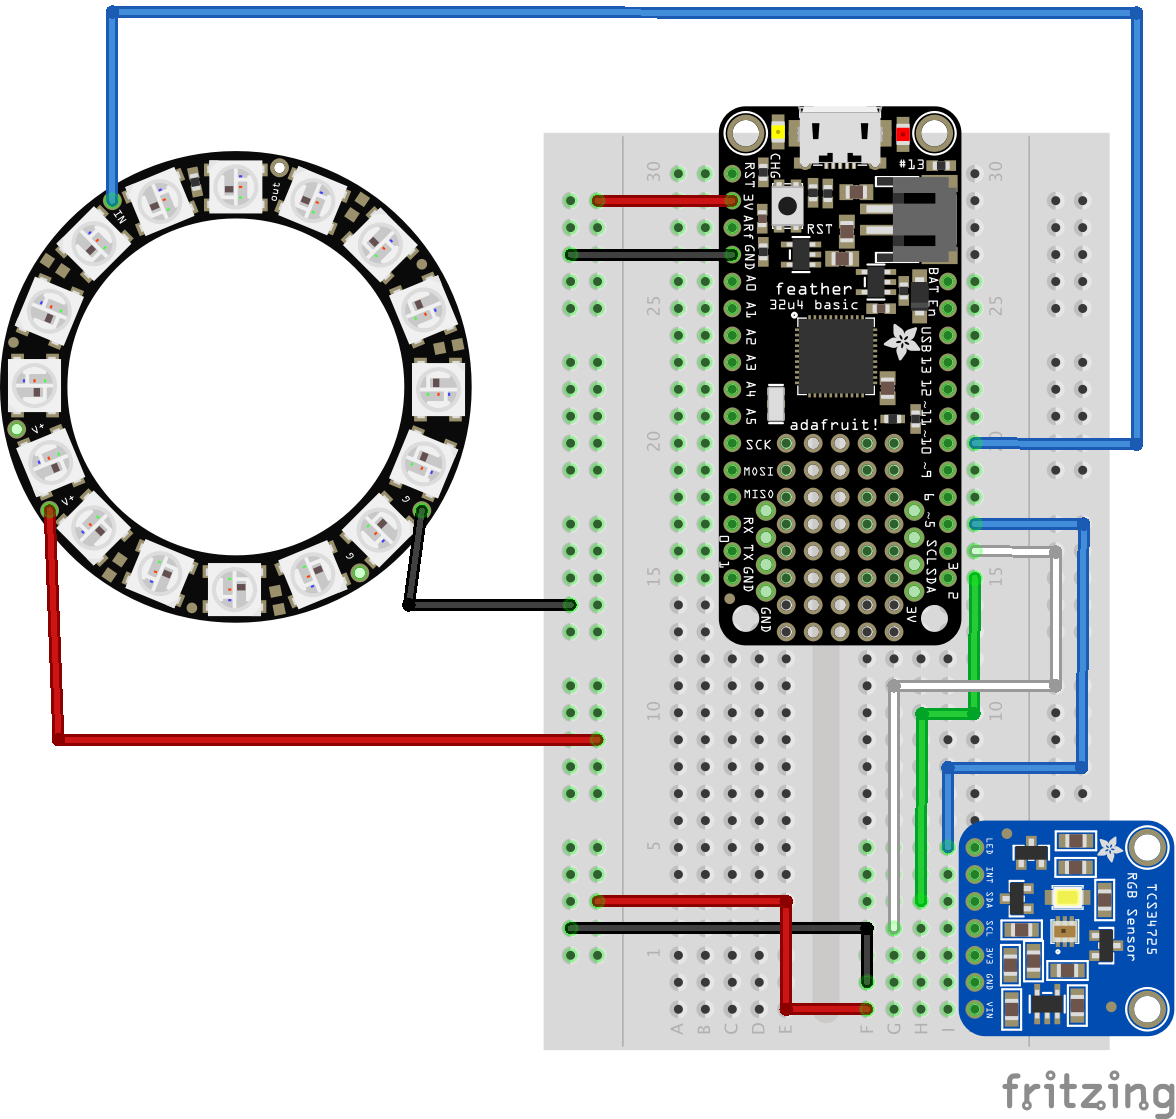
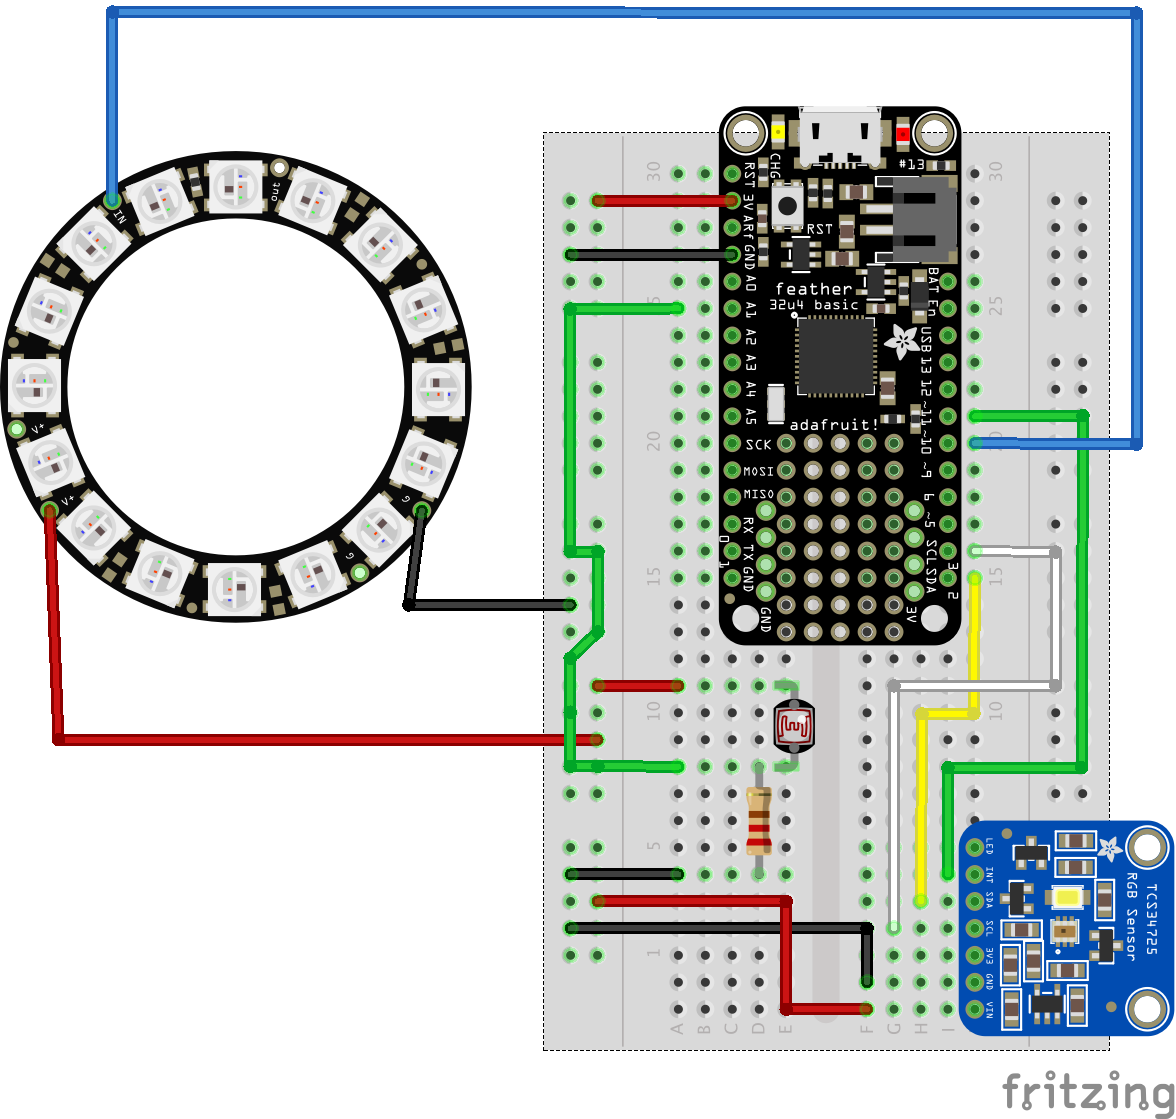
CC-1000 Color changes when I want it to, but colors don't seem accurate.

Changed region(s): [[0.4592, 0.2431, 0.7041, 0.79], [0.7653, 0.3646, 0.949, 0.8204]]

diff --git a/utils.cpp b/utils.cpp
@@ -5,12 +5,15 @@
 //
 // Author: Irfan Hossain
 ///////////////////////////////////////////////////////////////////////////////
+#include <Adafruit_NeoPixel.h>
+#include <Adafruit_TCS34725.h>
 #include <Arduino.h>
 #include <Math.h>
 #include "utils.h"
 
+extern Adafruit_TCS34725 tcs;
+extern Adafruit_NeoPixel pixels;
 extern uint8_t gammatable[256];
-
 /////////////////////////////////////////
 // Thanks to adafruit and PhilB for the
 // gammatable! The table converts the TCS
@@ -44,4 +47,26 @@ uint8_t convertToGamma(uint16_t clr, uint16_t rawData)
   idx = (uint8_t)color;
 
   return gammatable[idx];
+}
+
+/////////////////////////////////////////
+// Custom get data function to get data
+// in one shot.
+void getData(uint16_t *red, uint16_t *blue, uint16_t *green, uint16_t *clr)
+{
+  digitalWrite(TCS_LED_PIN, HIGH);
+  tcs.getRawData(red, blue, green, clr);
+  delay(1000);
+  digitalWrite(TCS_LED_PIN, LOW);
+}
+
+/////////////////////////////////////////
+// Update all the neopixels.
+void updateAllPixels(uint8_t red, uint8_t blue, uint8_t green, int num)
+{
+  for(int i=0;i<NUMPIXELS;i++)
+  {
+    pixels.setPixelColor(i, red, green, blue);
+    pixels.show();
+  }
 }

diff --git a/utils.h b/utils.h
@@ -8,6 +8,14 @@
 #ifndef UTILS_H
 #define UTILS_H
 
+#define PHOTO_R_PIN A1
+#define NEOPIXEL_PIN 10
+#define TCS_LED_PIN 11
+
+#define NUMPIXELS 16
+#define BAUD_RATE 9600
+#define TCS_DELAY 60
+
 /////////////////////////////////////////
 //
 void initGammaTable();
@@ -16,4 +24,11 @@ void initGammaTable();
 //
 uint8_t convertToGamma(uint16_t clr, uint16_t rawData);
 
+/////////////////////////////////////////
+//
+void getData(uint16_t *red, uint16_t *blue, uint16_t *green, uint16_t *clear);
+
+/////////////////////////////////////////
+//
+void updateAllPixels(uint8_t red, uint8_t blue, uint8_t green, int num);
 #endif UTILS_H
